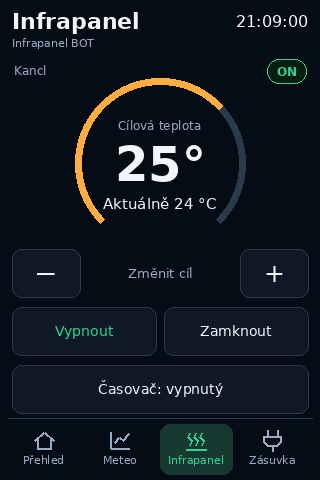
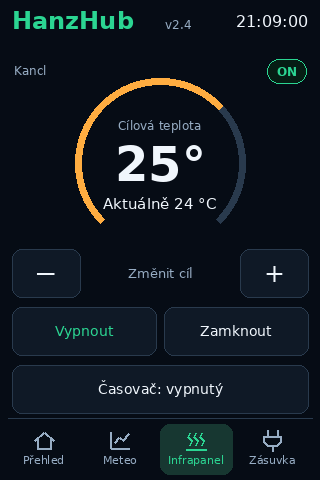
Simplify headers and open extended overview through HanzHub
Version 2.4.0 keeps tiles as the startup and idle home. HanzHub opens the extended system overview only from home and returns to tiles from details and timer dialogs. Enlarge the green brand, show the shared short version v2.4, remove page titles and IP from headers, and give summary labels, values and units fixed columns. Retain two-second thermostat debounce. Update README and native previews for both orientations; all 66 tests pass.

Changed region(s): [[0.0312, 0.0, 0.4375, 0.0938], [0.5, 0.0312, 0.5938, 0.0625]]

diff --git a/lcd/infopanel_landscape.py b/lcd/infopanel_landscape.py
@@ -4,7 +4,7 @@ from datetime import datetime
 from PIL import Image, ImageDraw
 
 from infopanel_ui import (AMBER, BG, BLUE, BORDER, GREEN, MUTED, RED,
-                         TITLES, WHITE, Canvas, Hit, fit_canvas, fmt, font, number, status, usable)
+                         TITLES, WHITE, HEADER_VERSION, Canvas, Hit, fit_canvas, fmt, font, number, status, usable)
 from infopanel_system import age_label, warnings
 
 SIZE = (1024,600)
@@ -89,24 +89,33 @@ def system_summary(c, model):
     system = model.get("system") or {}
     services = model.get("services")
     count = str(services["online"])+"/"+str(services["total"]) if services else "—"
-    summary = ("CPU "+fmt(system.get("cpu"),0," %")+"   RAM "+fmt(system.get("ram"),0," %")+
-               "   Disk "+fmt(system.get("disk"),0," %")+"   "+fmt(system.get("temp"),1," °C")+
-               "   Uptime "+str(system.get("uptime","—")))
     c.draw.line((20,56,1004,56),fill=BORDER)
-    c.hits.append(Hit((20,64,1004,126),("page","system")))
-    c.text((20,65),system.get("ip") or "Bez sítě",18,WHITE,True,width=410)
+    # Labels, values and units have separate fixed columns. A longer value
+    # cannot move the following statistic or its unit.
+    for x,right,unit_x,label,key in ((20,107,114,"CPU","cpu"),
+                                    (144,236,243,"RAM","ram"),
+                                    (274,363,370,"Disk","disk")):
+        c.text((x,65),label,18,WHITE,True,width=48 if key=="ram" else 44)
+        c.text((right,65),fmt(system.get(key),0),18,WHITE,True,anchor="ra",width=40)
+        c.text((unit_x,65),"%",18,WHITE,True)
+    c.text((477,65),fmt(system.get("temp"),1),18,WHITE,True,anchor="ra",width=69)
+    c.text((486,65),"°C",18,WHITE,True)
+    c.text((532,65),"Uptime",18,WHITE,True,width=80)
+    c.text((624,65),str(system.get("uptime","—")),18,WHITE,True,width=150)
     iot = model.get("iot")
     iot_count = str(iot["online"])+"/"+str(iot["total"]) if iot else "—"
-    c.text((785,65),"IoT online "+iot_count,18,
-           GREEN if iot and iot["online"]==iot["total"] else AMBER,True,anchor="ra")
-    c.text((1004,65),"Služby "+count,18,GREEN if services and services["online"]==services["total"] else AMBER,True,anchor="ra")
-    c.text((20,92),summary,18,WHITE,True,width=984)
+    iot_color = GREEN if iot and iot["online"]==iot["total"] else AMBER
+    c.text((806,97),"IoT online",18,iot_color,True,width=118)
+    c.text((1004,97),iot_count,18,iot_color,True,anchor="ra",width=72)
+    service_color = GREEN if services and services["online"]==services["total"] else AMBER
+    c.text((806,65),"Služby",18,service_color,True,width=88)
+    c.text((1004,65),count,18,service_color,True,anchor="ra",width=104)
     alerts = warnings(model)
     if alerts:
-        c.text((20,117),"! "+" · ".join(alerts),16,
-               RED if any(not item.startswith("Meteo:") for item in alerts) else AMBER,True,width=984)
+        c.text((20,99),"! "+" · ".join(alerts),16,
+               RED if any(not item.startswith("Meteo:") for item in alerts) else AMBER,True,width=780)
     elif model.get("message"):
-        c.text((20,117),model["message"],16,AMBER,width=984)
+        c.text((20,99),model["message"],16,AMBER,width=780)
 
 
 def weather_page(c, model, window):
@@ -286,23 +295,23 @@ def system_page(c, model):
         c.text((540,553),"Systémové údaje nedostupné",16,AMBER,width=444)
 
 
+def brand(c, page, with_hit=True):
+    c.icon("home",35,31,GREEN)
+    c.text((56,9),"HanzHub",30,GREEN,True)
+    c.text((228,25),HEADER_VERSION,14,MUTED)
+    if with_hit:
+        c.hits.append(Hit((20,0,292,64),("page","system" if page=="home" else "home")))
+
+
 def render_landscape(page, model, window, timer_dialog, size, font_path):
     c = Canvas(font_path,SIZE)
     now = model.get("now") or datetime.now()
-    system = model.get("system") or {}
-    c.icon("home",35,30,GREEN)
-    c.text((56,15),"HanzHub",24,GREEN,True)
-    c.hits.append(Hit((20,0,190,64),("page","home")))
-    if page!="home":
-        c.text((208,19),TITLES.get(page,"HanzHub"),21,WHITE,True)
+    brand(c,page)
     c.text((816,15),now.strftime("%H:%M:%S"),27,WHITE,anchor="ra")
     c.text((1004,15),now.strftime("%d.%m.%Y"),27,WHITE,anchor="ra")
     message = model.get("message")
-    subtitle = system.get("ip") or "Bez sítě"
-    if page!="home":
-        c.text((20,54),subtitle,16,MUTED,width=190)
     if page!="home" and message:
-        c.text((220,54),message,16,AMBER,width=784)
+        c.text((20,54),message,16,AMBER,width=984)
     {"home":overview,"meteo":lambda canvas,data:weather_page(canvas,data,window),
      "heater":heater_page,"plug":lambda canvas,data:plug_page(canvas,data,window),
      "system":system_page}.get(page,overview)(c,model)
@@ -310,6 +319,5 @@ def render_landscape(page, model, window, timer_dialog, size, font_path):
         system_summary(c,model)
     if timer_dialog:
         timer_modal(c,model)
-        c.icon("home",35,30,GREEN)
-        c.text((56,15),"HanzHub",24,GREEN,True)
+        brand(c,page,with_hit=False)
     return fit_canvas(c,size)

diff --git a/lcd/infopanel_ui.py b/lcd/infopanel_ui.py
@@ -17,6 +17,8 @@ GREEN = (43, 213, 146)
 RED = (255, 100, 108)
 AMBER = (255, 173, 65)
 BLUE = (75, 194, 255)
+VERSION = "2.4.0"
+HEADER_VERSION = "v"+".".join(VERSION.split(".")[:2])
 PAGES = ("home", "meteo", "heater", "plug")
 TITLES = {"home": "HanzHub", "meteo": "Meteo", "heater": "Infrapanel", "plug": "Zásuvka", "system": "Raspberry"}
 
@@ -202,11 +204,13 @@ def render(page, model, window=24, timer_dialog=False, size=(320,480), font_path
     now = model.get("now") or datetime.now()
     heater, plug = model.get("heater") or {}, model.get("plug") or {}
     meteo, system = model.get("meteo") or {}, model.get("system") or {}
-    c.text((12,8), TITLES.get(page, "HanzHub"), 22, GREEN if page=="home" else WHITE, True)
+    c.text((12,6), "HanzHub", 24, GREEN, True)
+    c.text((165,17), HEADER_VERSION, 12, MUTED)
+    c.hits.append(Hit((8,0,210,50),("page","system" if page=="home" else "home")))
     c.text((308,12), now.strftime("%H:%M:%S"), 16, WHITE, anchor="ra")
     message = model.get("message")
-    subtitle = message or (system.get("ip", "Bez sítě") if page=="home" else model.get(page+"_name", TITLES.get(page,"")))
-    c.text((12,36), subtitle, 11, AMBER if message else MUTED, width=296)
+    if message:
+        c.text((12,36), message, 11, AMBER, width=296)
     h_active = usable(heater) and not model.get("busy")
     p_active = usable(plug) and not model.get("busy")
     ht = heater if usable(heater) and heater["power"] else {}
@@ -214,8 +218,6 @@ def render(page, model, window=24, timer_dialog=False, size=(320,480), font_path
     if page == "system":
         from infopanel_landscape import byte_label, firmware_label
         from infopanel_system import warnings
-        c.text((12,8),"HanzHub",22,GREEN,True)
-        c.hits.append(Hit((8,0,144,50),("page","home")))
         c.card((8,58,312,249),BLUE)
         c.text((20,70),"Raspberry Pi · "+str(system.get("uptime","—")),16,WHITE,True,width=280)
         c.text((20,100),"CPU "+fmt(system.get("cpu"),0," %")+" · RAM "+fmt(system.get("ram"),0," %"),14,WHITE,width=280)
@@ -260,10 +262,14 @@ def render(page, model, window=24, timer_dialog=False, size=(320,480), font_path
         c.text((20,320), fmt(plug.get("power_w") if usable(plug) else None,1," W"), 29, WHITE, True)
         c.text((300,325), "Dnes", 11, MUTED, anchor="ra")
         c.text((300,342), fmt(plug.get("energy_today_kwh") if usable(plug) else None,3," kWh"), 14, WHITE, anchor="ra")
-        c.text((12,385), "Raspberry Pi", 11, MUTED)
-        c.text((308,382), "CPU "+fmt(system.get("cpu"),0," %")+" · "+fmt(system.get("temp"),1," °C"), 12, WHITE, anchor="ra")
-        c.text((12,402), "RAM "+fmt(system.get("ram"),0," %")+" · disk "+fmt(system.get("disk"),0," %")+" · "+str(system.get("uptime","—")), 10, MUTED, width=296)
-        c.hits.append(Hit((8,375,312,419),("page","system")))
+        c.text((12,384), "CPU", 11, MUTED)
+        c.text((85,382), fmt(system.get("cpu"),0," %"), 12, WHITE, anchor="ra",width=44)
+        c.text((308,382), fmt(system.get("temp"),1," °C"), 12, WHITE, anchor="ra",width=96)
+        c.text((12,402), "RAM", 10, MUTED)
+        c.text((89,402), fmt(system.get("ram"),0," %"), 10, WHITE,anchor="ra",width=49)
+        c.text((102,402), "Disk", 10, MUTED)
+        c.text((177,402), fmt(system.get("disk"),0," %"), 10, WHITE,anchor="ra",width=49)
+        c.text((308,402), str(system.get("uptime","—")), 10, WHITE,anchor="ra",width=110)
     elif page == "meteo":
         c.card((8,58,312,140),BLUE)
         c.text((20,66), "Aktuální teplota" if not meteo.get("stale") else "Poslední teplota", 12, MUTED)
@@ -322,7 +328,7 @@ def render(page, model, window=24, timer_dialog=False, size=(320,480), font_path
                  active=p_active,color=GREEN if plug.get("power") else RED)
     c.nav(page)
     if timer_dialog:
-        c.hits.clear()
+        c.hits[:] = [hit for hit in c.hits if hit.action==("page","home") and hit.rect[3]<=50]
         shade = Image.new("RGB",c.image.size,BG)
         c.image = Image.blend(c.image,shade,.75)
         c.draw = ImageDraw.Draw(c.image)
@@ -332,4 +338,6 @@ def render(page, model, window=24, timer_dialog=False, size=(320,480), font_path
             x,y = 24+(i%2)*142,163+(i//2)*57
             c.button((x,y,x+130,y+49), "Vypnout" if hours==0 else str(hours)+" h", ("command","heater","timer_minutes",hours*60),active=h_active)
         c.button((24,344,296,395),"Zpět",("timer","close"))
+        c.text((12,6), "HanzHub", 24, GREEN, True)
+        c.text((165,17), HEADER_VERSION, 12, MUTED)
     return fit_canvas(c,size)

diff --git a/tests/test_header.py b/tests/test_header.py
@@ -1,0 +1,42 @@
+"""Visible header invariants across pages and changing system readings."""
+from pathlib import Path
+import sys
+import unittest
+
+sys.path.insert(0,str(Path(__file__).resolve().parents[1]/"lcd"))
+from infopanel_ui import render
+from preview_infopanel import demo_model
+
+
+class HeaderTests(unittest.TestCase):
+    def test_same_header_on_all_pages_and_home_does_not_expose_ip(self):
+        for size in ((1024,600),(320,480)):
+            model = demo_model()
+            image,_ = render("home",model,size=size)
+            header = image.crop((0,0,size[0],50)).tobytes()
+            for page in ("meteo","heater","plug","system"):
+                detail,_ = render(page,model,size=size)
+                self.assertEqual(detail.crop((0,0,size[0],50)).tobytes(),header)
+            model["system"]["ip"] = "10.123.123.123"
+            changed,_ = render("home",model,size=size)
+            self.assertEqual(image.tobytes(),changed.tobytes())
+
+    def test_longer_readings_do_not_move_neighboring_statistics(self):
+        image,_ = render("home",demo_model(),size=(1024,600))
+        for field,value,regions in (
+            ("cpu",100,[(140,60,1004,92)]),
+            ("ram",100,[(20,60,140,92),(270,60,1004,92)]),
+            ("disk",100,[(20,60,270,92),(402,60,1004,92)]),
+            ("temp",140.0,[(20,60,400,92),(532,60,1004,92)]),
+            ("uptime","999999 d 23:59",[(20,60,532,92),(800,60,1004,92)]),
+        ):
+            model = demo_model()
+            model["system"][field] = value
+            changed,_ = render("home",model,size=(1024,600))
+            for region in regions:
+                with self.subTest(field=field,region=region):
+                    self.assertEqual(image.crop(region).tobytes(),changed.crop(region).tobytes())
+
+
+if __name__=="__main__":
+    unittest.main()

diff --git a/lcd/preview_infopanel.py b/lcd/preview_infopanel.py
@@ -6,7 +6,7 @@ import math
 from pathlib import Path
 
 from PIL import Image, ImageDraw
-from infopanel_ui import BG, MUTED, PAGES, TITLES, font, render
+from infopanel_ui import BG, MUTED, PAGES, TITLES, VERSION, font, render
 
 
 def demo_model():
@@ -36,7 +36,7 @@ def portrait_previews(output):
         x = 20+i*340
         composite.paste(image,(x,40))
         draw.text((x+160,18),"Přehled" if page=="home" else TITLES[page],font=font(16,True),fill=MUTED,anchor="mm")
-    draw.text((688,535),"HanzHub · Infopanel v2 · ukázková data · obrazovky 320 × 480",font=font(13),fill=MUTED,anchor="mm")
+    draw.text((688,535),f"HanzHub · Infopanel v{VERSION} · ukázková data · obrazovky 320 × 480",font=font(13),fill=MUTED,anchor="mm")
     composite.save(output/"infopanel-v2.png")
     model.update(heater={"online":False},plug={"online":False},iot={"online":0,"total":2},meteo={"stale":True})
     render("home",model)[0].save(output/"offline.png")
@@ -57,7 +57,7 @@ def landscape_previews(output):
         x,y = 10+(i%2)*532,38+(i//2)*340
         composite.paste(image.resize((512,300),Image.Resampling.LANCZOS),(x,y))
         draw.text((x+256,y-20),"Přehled" if page=="home" else TITLES[page],font=font(16,True),fill=MUTED,anchor="mm")
-    draw.text((532,708),"HanzHub · Infopanel v2.3.0 · ukázková data · obrazovky 1024 × 600",font=font(13),fill=MUTED,anchor="mm")
+    draw.text((532,708),f"HanzHub · Infopanel v{VERSION} · ukázková data · obrazovky 1024 × 600",font=font(13),fill=MUTED,anchor="mm")
     composite.save(output/"infopanel-landscape.png")
     model = demo_model()
     model.update(heater={"online":False},plug={"online":False},iot={"online":0,"total":2},meteo={"stale":True})

diff --git a/tests/test_tiles_and_debounce.py b/tests/test_tiles_and_debounce.py
@@ -87,7 +87,7 @@ class TileNavigationTests(unittest.TestCase):
     def test_brand_goes_home_from_every_detail_and_timer(self):
         calibration = Calibration(((0,1024),(0,600)),(1024,600),[[1024,0,0],[0,600,0]])
         data = SimpleNamespace(submit=lambda *args:self.fail("Navigace nesmí poslat příkaz"))
-        for page in ("meteo","heater","plug"):
+        for page in ("meteo","heater","plug","system"):
             for modal in (False,True) if page=="heater" else (False,):
                 state = ScreenState()
                 state.page,state.timer_dialog = page,modal
@@ -100,7 +100,7 @@ class TileNavigationTests(unittest.TestCase):
         model = demo_model()
         model["home_tiles"] = ["plug","meteo"]
         _,hits = render("home",model,size=(1024,600))
-        self.assertEqual([h.action for h in hits if h.action[0]=="page"],[("page","home"),("page","plug"),("page","meteo"),("page","system")])
+        self.assertEqual([h.action for h in hits if h.action[0]=="page"],[("page","system"),("page","plug"),("page","meteo")])
         self.assertEqual(validate_settings({"home_tiles":["plug"]})["home_tiles"],["plug"])
         for bad in ([],["other"],["heater","heater"],"meteo",[None]):
             with self.assertRaises(ValueError):

diff --git a/tests/test_system_detail.py b/tests/test_system_detail.py
@@ -146,13 +146,15 @@ class IoTCountTests(unittest.TestCase):
 
 
 class SystemNavigationTests(unittest.TestCase):
-    def test_band_opens_detail_and_brand_goes_home_without_commands(self):
+    def test_only_brand_on_home_opens_detail_and_brand_returns_home(self):
         size = (1024,600)
         calibration = Calibration(((0,1024),(0,600)),size,[[1024,0,0],[0,600,0]])
         data = NS(submit=lambda *args:self.fail("Read-only detail must not submit"))
         state = ScreenState()
         _,hits = render("home",demo_model(),size=size)
         state.tap(Tap(500,95,500,95,False,.1),calibration,hits,data)
+        self.assertEqual(state.page,"home")
+        state.tap(Tap(100,30,100,30,False,.1),calibration,hits,data)
         self.assertEqual(state.page,"system")
         _,hits = render(state.page,demo_model(),size=size)
         state.tap(Tap(100,30,100,30,False,.1),calibration,hits,data)

diff --git a/lcd/infopanel.py b/lcd/infopanel.py
@@ -19,13 +19,12 @@ from PIL import Image, ImageDraw
 
 from infopanel_data import InfoData, ServiceHealth, finite, meteo_records
 from infopanel_touch import Calibration, TouchReader, list_touch_devices
-from infopanel_ui import BG, WHITE, GREEN, AMBER, PAGES, font, layout_for, render
+from infopanel_ui import BG, WHITE, GREEN, AMBER, PAGES, VERSION, font, layout_for, render
 from infopanel_system import SystemMonitor
 from lcd_info import (FBIOGET_FSCREENINFO, FBIOGET_VSCREENINFO, fb_fix_screeninfo,
                       fb_var_screeninfo, fb_ioctl_struct, rgb_to_rgb565_bytes,
                       _try_parse_line)
 
-VERSION = "2.3.0"
 DEFAULTS = {"fb":"/dev/fb0","rotate":0,"touch":"auto","layout":"auto",
             "font":"/usr/share/fonts/truetype/dejavu/DejaVuSans.ttf",
             "meteo_csv":"/opt/meteo3/meteo_log.csv","meteo_refresh":15,"meteo_stale":3600,

diff --git a/tests/test_landscape.py b/tests/test_landscape.py
@@ -33,8 +33,8 @@ class LandscapeTests(unittest.TestCase):
         calibration = Calibration(((0,1024),(0,600)),size,[[1024,0,0],[0,600,0]])
         calls = []
         data = SimpleNamespace(submit=lambda *args:calls.append(args))
-        cards = [hit for hit in hits if hit.action[0]=="page" and hit.action[1]!="home"]
-        self.assertEqual([hit.action[1] for hit in cards],["meteo","heater","plug","system"])
+        cards = [hit for hit in hits if hit.action[0]=="page" and hit.action[1] in ("meteo","heater","plug")]
+        self.assertEqual([hit.action[1] for hit in cards],["meteo","heater","plug"])
         for hit in cards:
             x,y = (hit.rect[0]+hit.rect[2])/2,(hit.rect[1]+hit.rect[3])/2
             state = ScreenState()

diff --git a/tests/test_infopanel.py b/tests/test_infopanel.py
@@ -168,8 +168,8 @@ class InteractionTests(unittest.TestCase):
         for page in ("home","meteo","heater","plug"):
             self.assertEqual(render(page,model)[0].size,(320,480))
         _,hits = render("heater",demo_model(),timer_dialog=True)
-        self.assertFalse(any(hit.action[0]=="page" for hit in hits))
-        self.assertEqual(len(hits),7)
+        self.assertEqual([hit.action for hit in hits if hit.action[0]=="page"],[("page","home")])
+        self.assertEqual(len(hits),8)
 
 
 class HistoryTests(unittest.TestCase):
